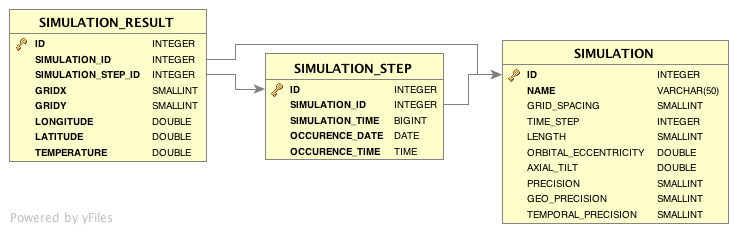
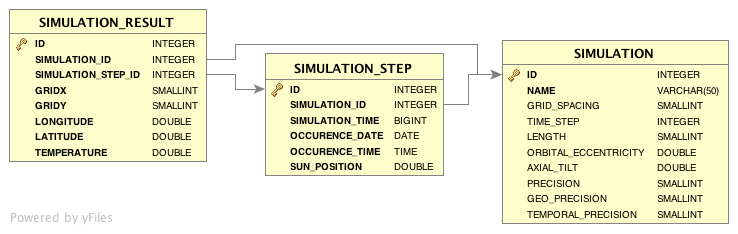
Added sun position

Changed region(s): [[0.3428, 0.6581, 0.6233, 0.7778]]

diff --git a/src/data/impl/CreateSQL.java b/src/data/impl/CreateSQL.java
@@ -21,7 +21,8 @@ public final class CreateSQL {
 														+ "SIMULATION_ID INTEGER NOT NULL,"
 														+ "SIMULATION_TIME BIGINT NOT NULL, "
 														+ "OCCURENCE_DATE DATE NOT NULL,"
-														+ "OCCURENCE_TIME TIME NOT NULL"
+														+ "OCCURENCE_TIME TIME NOT NULL,"
+														+ "SUN_POSITION FLOAT NOT NULL "
 														+ ")";
 	
 	public static final String CREATE_SIMULATION_RESULT = "CREATE TABLE APP.SIMULATION_RESULT "
